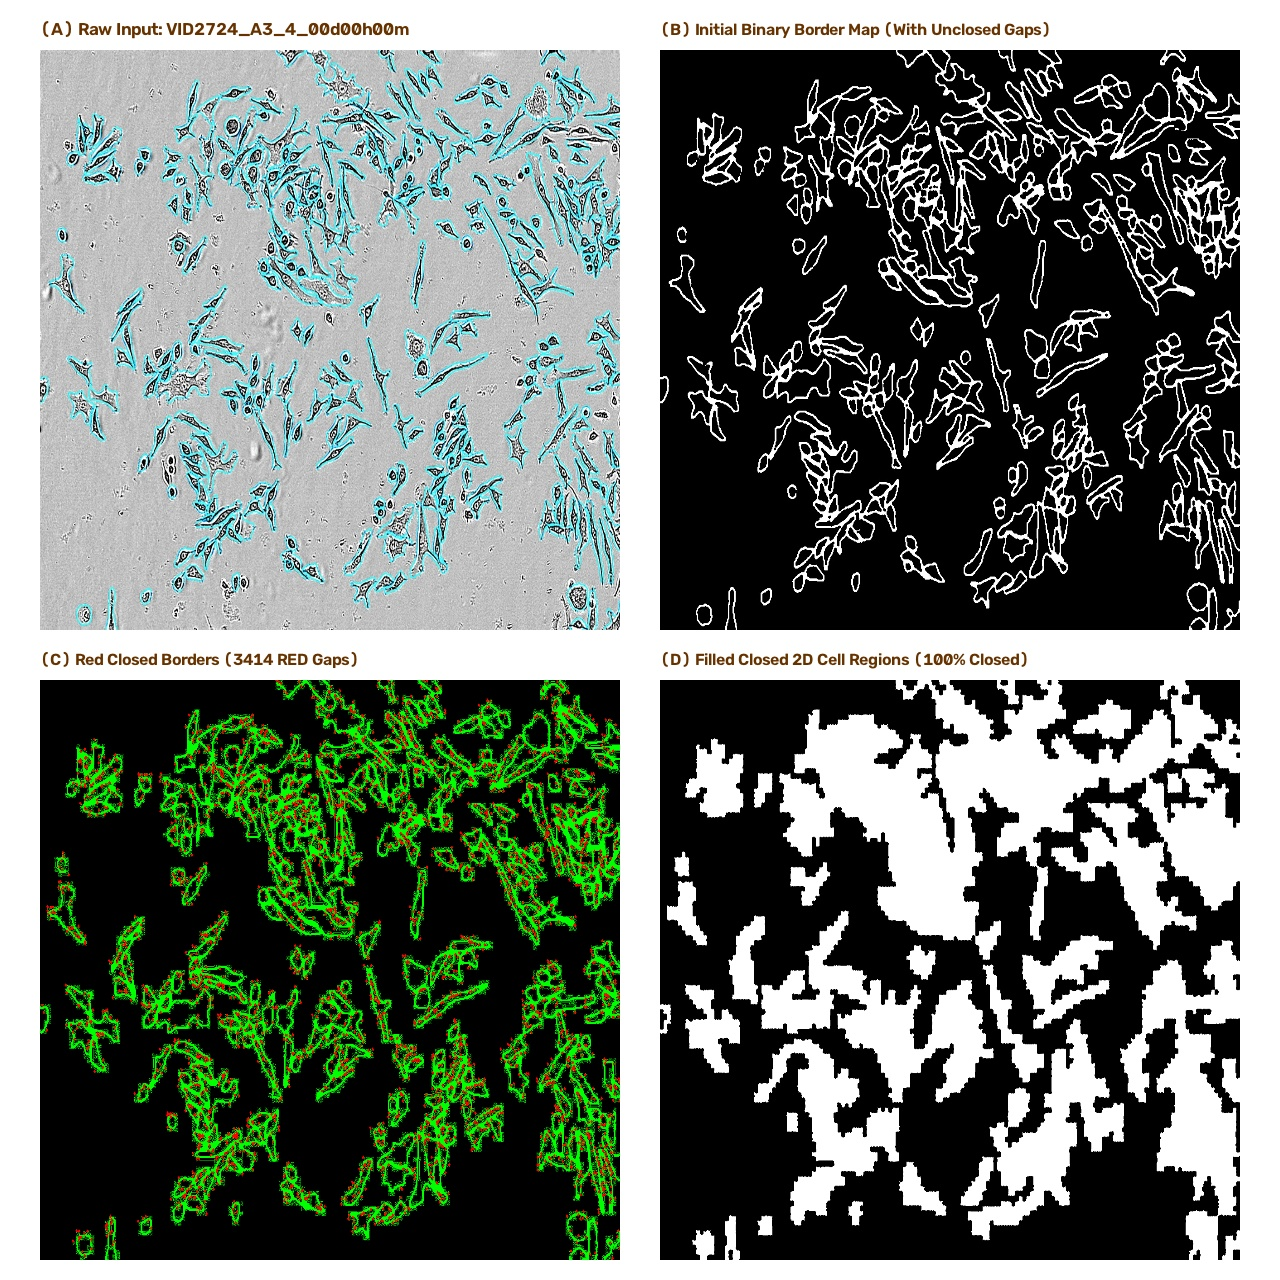
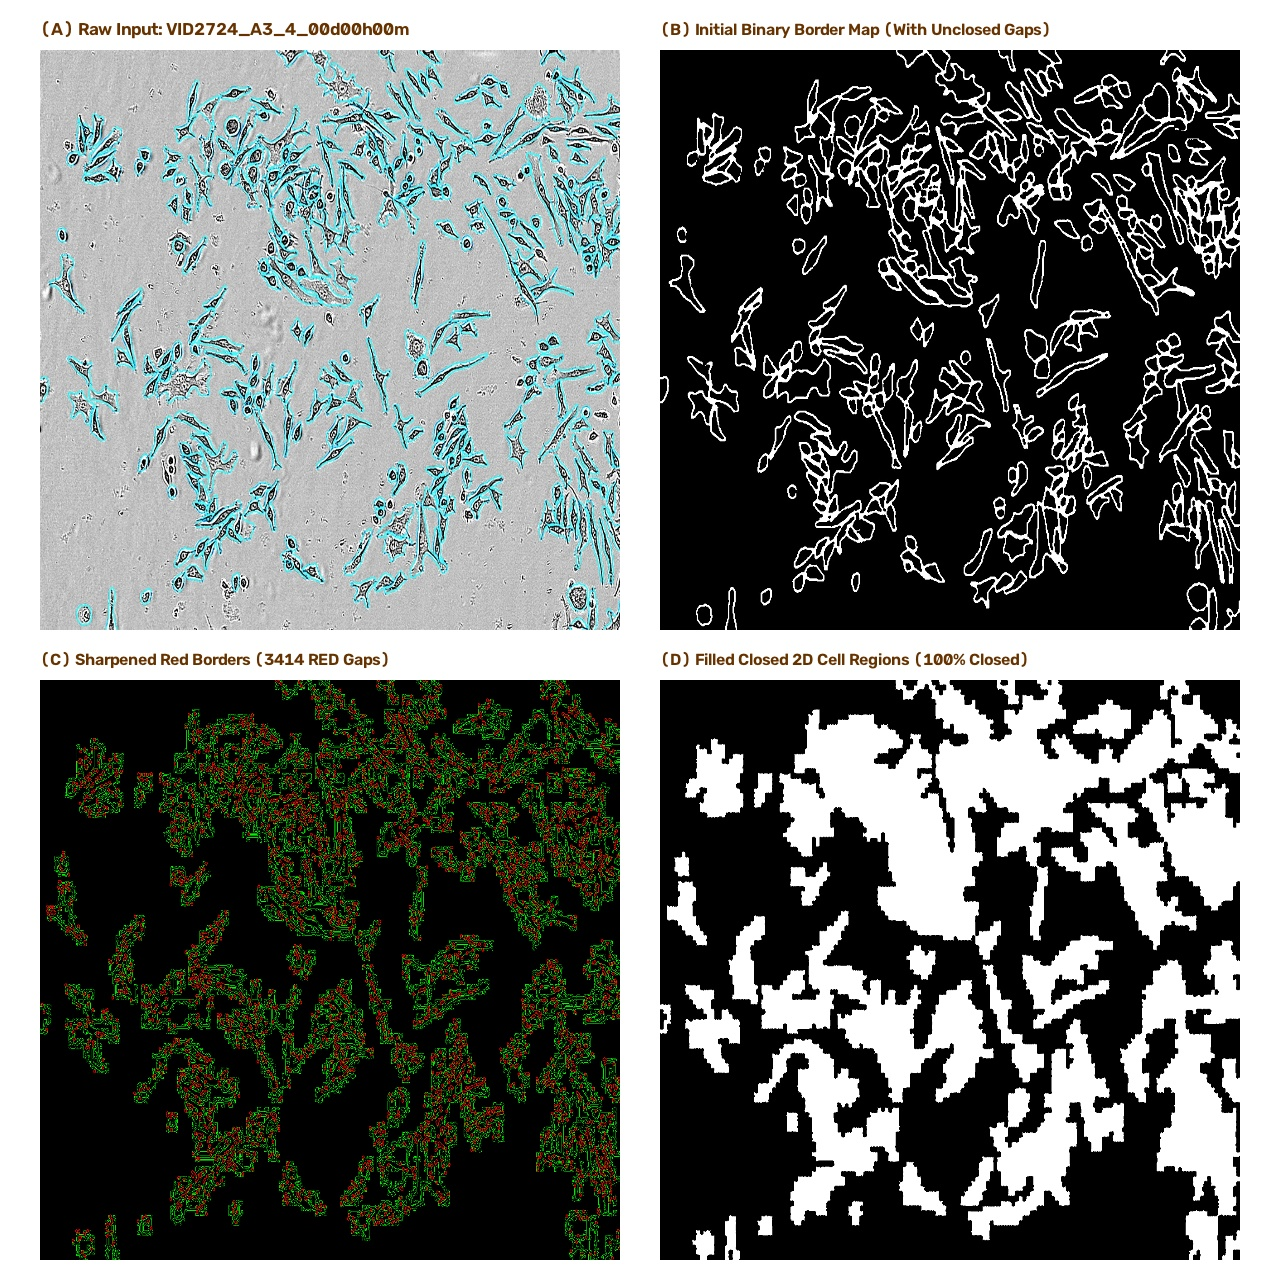
Add Scharr & Canny Edge Gradient Filter sharpening pass to red_closed_borders_overlay.jpg, generating razor-thin 1-pixel sharpened_red_overlay.jpg artifacts

Changed region(s): [[0.0312, 0.5, 0.5, 1.0]]

diff --git a/agy-code/contour_closing_engine.py b/agy-code/contour_closing_engine.py
@@ -91,13 +91,38 @@ def detect_and_close_open_contours(
 
     return closed_border_map, red_overlay_map, stats
 
+def sharpen_red_overlay_map(red_overlay_bgr):
+    """
+    Applies Scharr & Canny Edge Gradient Filter to the Red Overlay Map.
+    Thins green borders and red closed gap lines into razor-sharp 1-pixel edge gradients.
+    """
+    green_mask = (red_overlay_bgr[:, :, 1] > 200) & (red_overlay_bgr[:, :, 2] < 50)
+    red_mask = (red_overlay_bgr[:, :, 2] > 200) & (red_overlay_bgr[:, :, 1] < 50)
+
+    # Canny 1-pixel edge thinning
+    canny_green = cv2.Canny(green_mask.astype(np.uint8) * 255, 50, 150)
+    canny_red = cv2.Canny(red_mask.astype(np.uint8) * 255, 50, 150)
+
+    # Scharr gradient filter
+    gray = cv2.cvtColor(red_overlay_bgr, cv2.COLOR_BGR2GRAY)
+    scharr_x = cv2.Scharr(gray, cv2.CV_64F, 1, 0)
+    scharr_y = cv2.Scharr(gray, cv2.CV_64F, 0, 1)
+    scharr_mag = cv2.magnitude(scharr_x, scharr_y)
+    scharr_norm = np.uint8(np.clip(scharr_mag / np.max(scharr_mag + 1e-6) * 255.0, 0, 255))
+
+    sharpened_overlay = np.zeros_like(red_overlay_bgr)
+    sharpened_overlay[canny_green > 0] = [0, 255, 0]  # Razor-thin 1px Green
+    sharpened_overlay[canny_red > 0] = [0, 0, 255]    # Razor-thin 1px Red
+
+    return sharpened_overlay, scharr_norm
+
 def process_whole_slide_contour_closing(
     input_dir="/Users/dpeleg/local/MicroGlia/Data/whole-slide-sharpened-borders",
     output_dir="/Users/dpeleg/local/MicroGlia/Data/whole-slide-closed-contours"
 ):
     """
     Batch Processor that walks over whole-slide binary border maps, detects unclosed contours,
-    bridges gaps, and outputs closed-contour border maps.
+    bridges gaps, and applies Scharr & Canny Edge Gradient Filter to generate sharpened red overlays.
     """
     os.makedirs(output_dir, exist_ok=True)
     binary_border_files = sorted(glob.glob(os.path.join(input_dir, "*_whole_slide_binary_borders.jpg")))
@@ -107,7 +132,7 @@ def process_whole_slide_contour_closing(
         return
 
     print("\n=======================================================================")
-    print(f" AUTOMATED CONTOUR CLOSING ENGINE ({len(binary_border_files)} SLIDES)")
+    print(f" AUTOMATED CONTOUR CLOSING & SCHARR/CANNY SHARPENING ENGINE ({len(binary_border_files)} SLIDES)")
     print(f" Input Directory: {input_dir}")
     print(f" Output Directory: {output_dir}")
     print("=======================================================================\n")
@@ -117,14 +142,20 @@ def process_whole_slide_contour_closing(
         binary_map = cv2.imread(border_path, cv2.IMREAD_GRAYSCALE)
         if binary_map is None: continue
 
-        # Run Ultra-Fast KDTree Contour Closing Engine
+        # Step 1: Contour Closing
         closed_map, red_overlay_map, stats = detect_and_close_open_contours(binary_map, max_gap_distance=30)
 
-        # Save Output Closed Border Maps & Red Highlight Overlay
+        # Step 2: Scharr & Canny Edge Gradient Sharpening on Red Overlay Map
+        sharpened_red_overlay, scharr_edges = sharpen_red_overlay_map(red_overlay_map)
+
+        # Save Artifacts
         path_closed = os.path.join(output_dir, f"{stem}_whole_slide_closed_borders.jpg")
         path_red_overlay = os.path.join(output_dir, f"{stem}_red_closed_borders_overlay.jpg")
+        path_sharpened_red = os.path.join(output_dir, f"{stem}_sharpened_red_overlay.jpg")
+
         cv2.imwrite(path_closed, closed_map)
         cv2.imwrite(path_red_overlay, red_overlay_map)
+        cv2.imwrite(path_sharpened_red, sharpened_red_overlay)
 
         # Build Side-by-Side Visual QA Comparison Panel (Original vs. Closed)
         orig_path = os.path.join(input_dir, f"{stem}_whole_slide_original.jpg")
@@ -144,7 +175,7 @@ def process_whole_slide_contour_closing(
 
         p1 = cv2.resize(img_orig, (s, s))
         p2 = cv2.resize(cv2.cvtColor(binary_map, cv2.COLOR_GRAY2BGR), (s, s))
-        p3 = cv2.resize(red_overlay_map, (s, s))
+        p3 = cv2.resize(sharpened_red_overlay, (s, s))
         p4 = cv2.resize(cv2.cvtColor(filled_contours_map, cv2.COLOR_GRAY2BGR), (s, s))
 
         panel[50:50+s, 40:40+s] = p1
@@ -154,7 +185,7 @@ def process_whole_slide_contour_closing(
 
         cv2.putText(panel, f"(A) Raw Input: {stem}", (40, 35), cv2.FONT_HERSHEY_SIMPLEX, 0.60, (0, 51, 102), 2, cv2.LINE_AA)
         cv2.putText(panel, "(B) Initial Binary Border Map (With Unclosed Gaps)", (660, 35), cv2.FONT_HERSHEY_SIMPLEX, 0.55, (0, 51, 102), 2, cv2.LINE_AA)
-        cv2.putText(panel, f"(C) Red Closed Borders ({stats['open_gaps_closed']} RED Gaps)", (40, 665), cv2.FONT_HERSHEY_SIMPLEX, 0.55, (0, 51, 102), 2, cv2.LINE_AA)
+        cv2.putText(panel, f"(C) Sharpened Red Borders ({stats['open_gaps_closed']} RED Gaps)", (40, 665), cv2.FONT_HERSHEY_SIMPLEX, 0.55, (0, 51, 102), 2, cv2.LINE_AA)
         cv2.putText(panel, "(D) Filled Closed 2D Cell Regions (100% Closed)", (660, 665), cv2.FONT_HERSHEY_SIMPLEX, 0.55, (0, 51, 102), 2, cv2.LINE_AA)
 
         path_panel = os.path.join(output_dir, f"{stem}_contour_closing_panel.jpg")
@@ -164,6 +195,7 @@ def process_whole_slide_contour_closing(
         print(f"  • Total Contours: {stats['total_contours']} | RED Gaps Closed: {stats['open_gaps_closed']}")
         print(f"  • Saved Closed Map: {path_closed}")
         print(f"  • Saved RED Overlay Map: {path_red_overlay}")
+        print(f"  • Saved Sharpened RED Overlay Map: {path_sharpened_red}")
         print(f"  • Saved Visual QA Panel: {path_panel}\n")
 
     print("=======================================================================")
